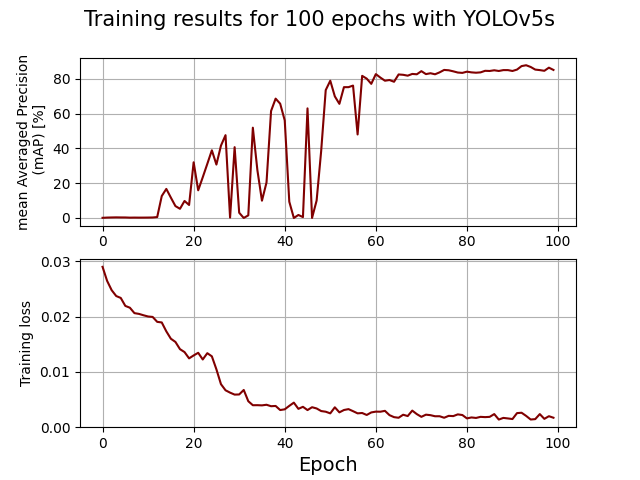
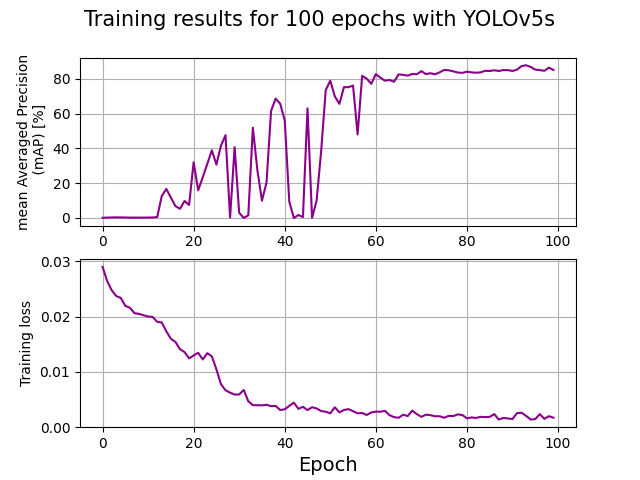
Changed yolo-graph color

diff --git a/data/stats/yolo_graph.py b/data/stats/yolo_graph.py
@@ -24,12 +24,12 @@ acc = np.array(acc)*100
 epoch = np.array(epoch)
 
 fig, axs = plt.subplots(2,1)
-axs[0].plot(epoch, acc, 'maroon')
+axs[0].plot(epoch, acc, 'darkmagenta')
 axs[0].set_ylabel("mean Averaged Precision\n (mAP) [%]", fontsize = 10)
 axs[0].grid(True)
 
 
-axs[1].plot(epoch, losses, 'maroon')
+axs[1].plot(epoch, losses, 'darkmagenta')
 axs[1].set_ylabel("Training loss", fontsize = 10)
 axs[1].grid(True)
 
